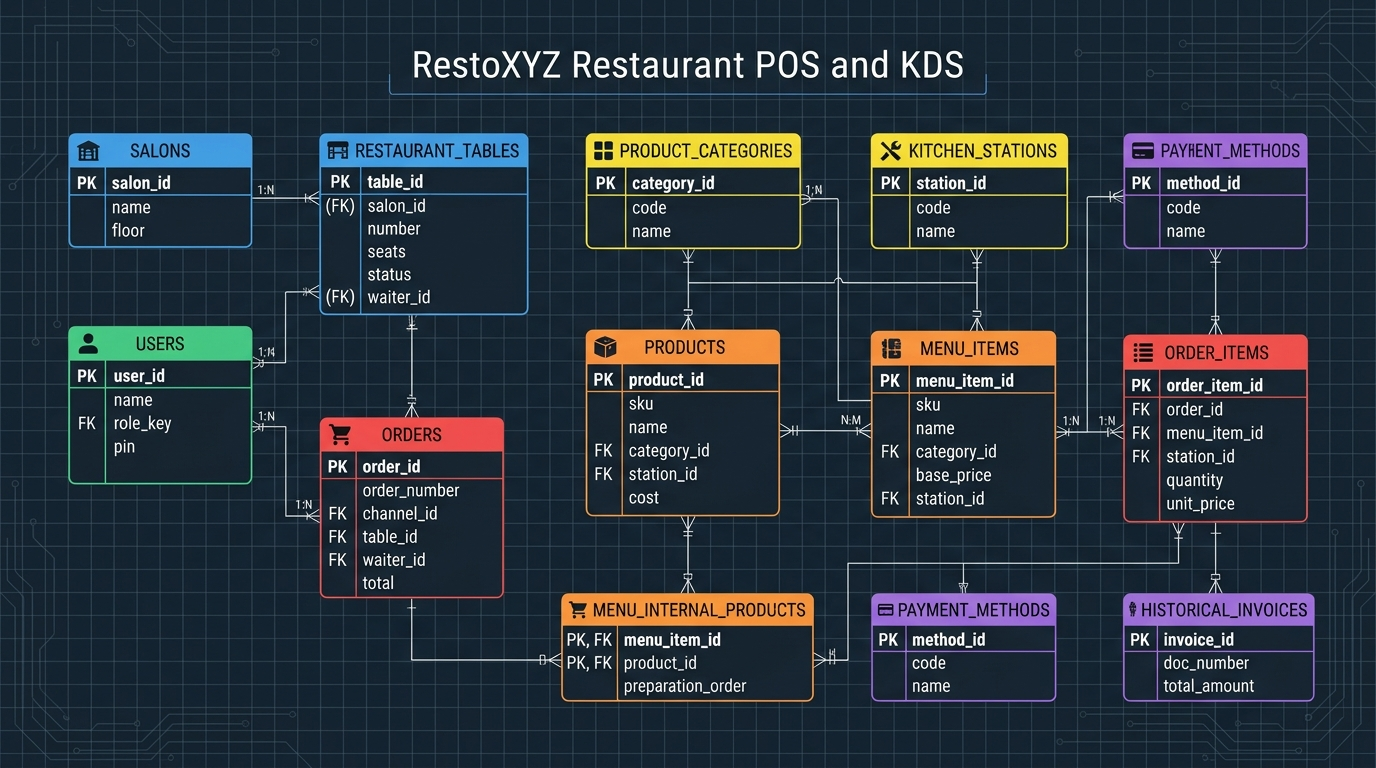
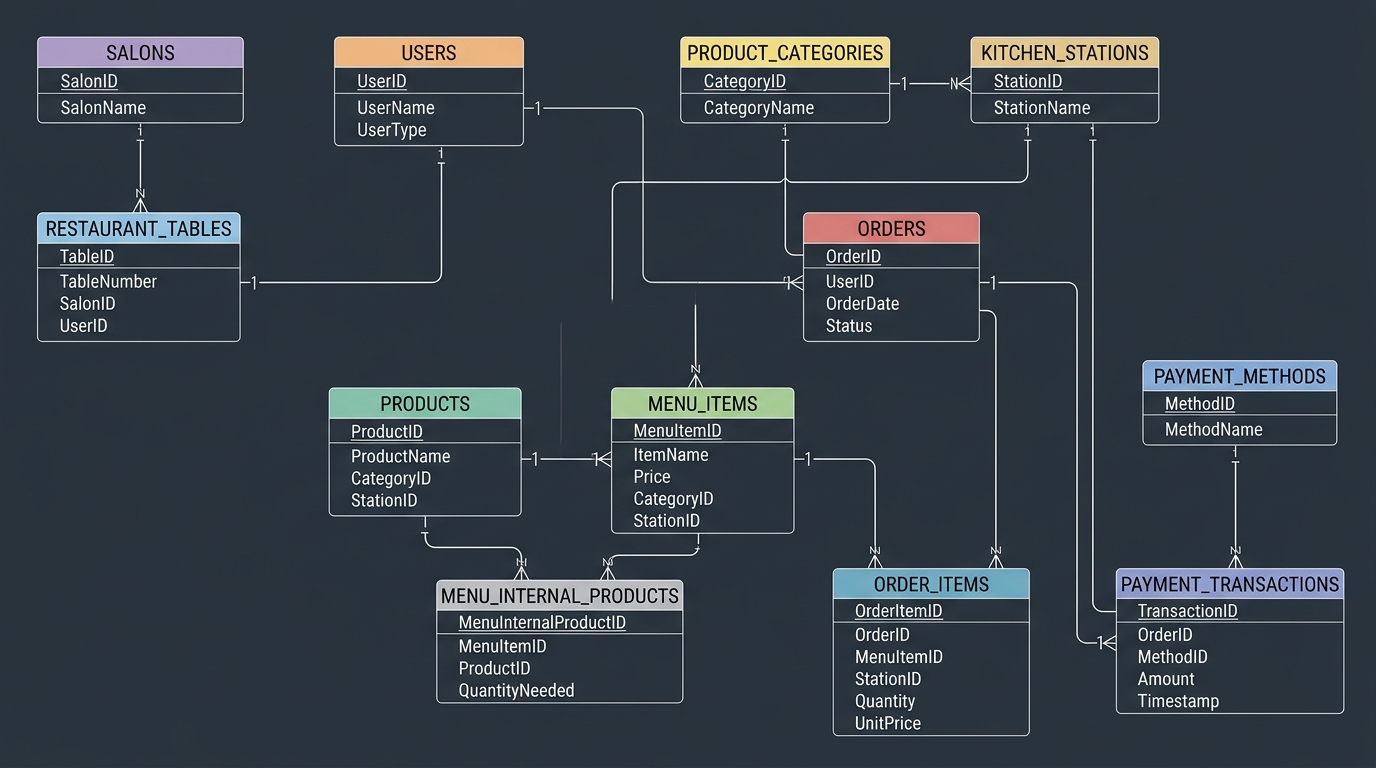
docs: clarify database relations in architecture design
Refactor the conceptual N:M relationship between menu_items and products into two distinct 1:N relations via the `menu_internal_products` table to ensure structural clarity. Updated ERD diagram to reflect these changes.

Changed region(s): [[0.0, 0.0312, 1.0, 1.0], [0.0625, 0.9375, 0.1875, 1.0]]

diff --git a/docs/dcu-arquitectura-diseno.html b/docs/dcu-arquitectura-diseno.html
@@ -264,11 +264,11 @@
 
         <div class="bg-slate-50 p-4 rounded-xl border border-slate-200 space-y-2">
           <div class="font-bold text-slate-900 text-sm flex items-center justify-between">
-            <span>menu_items & products</span>
-            <span class="text-[10px] bg-purple-100 text-purple-800 px-1.5 py-0.5 rounded font-mono">N : M</span>
+            <span>menu_items & products (Vía Puente)</span>
+            <span class="text-[10px] bg-purple-100 text-purple-800 px-1.5 py-0.5 rounded font-mono">2 × (1 : N)</span>
           </div>
           <p class="text-slate-600">
-            <strong>Tabla intermedia:</strong> <code>menu_internal_products</code> vincula el combo de venta con sus insumos o productos base con orden de preparación.
+            <strong>Tabla intermedia:</strong> <code>menu_internal_products</code> descompone la relación conceptual en dos relaciones estrictamente <strong>1 : N</strong> (<code>menu_items 1:N</code> y <code>products 1:N</code>). No existe ningún enlace directo N:M en el motor relacional.
           </p>
         </div>
       </div>
